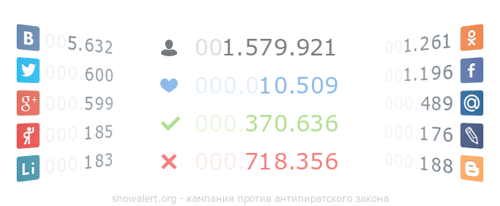
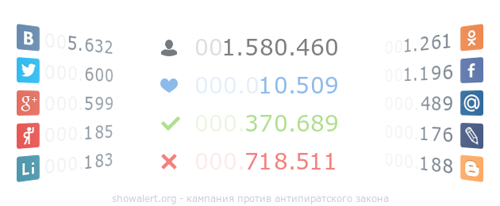
some updates

Changed region(s): [[0.51, 0.1748, 0.69, 0.2913], [0.57, 0.7282, 0.69, 0.8447], [0.6, 0.5534, 0.69, 0.6408]]

diff --git a/votes.js b/votes.js
@@ -1,1 +1,1 @@
-window.lk.votes(22991)
+window.lk.votes(22999)
